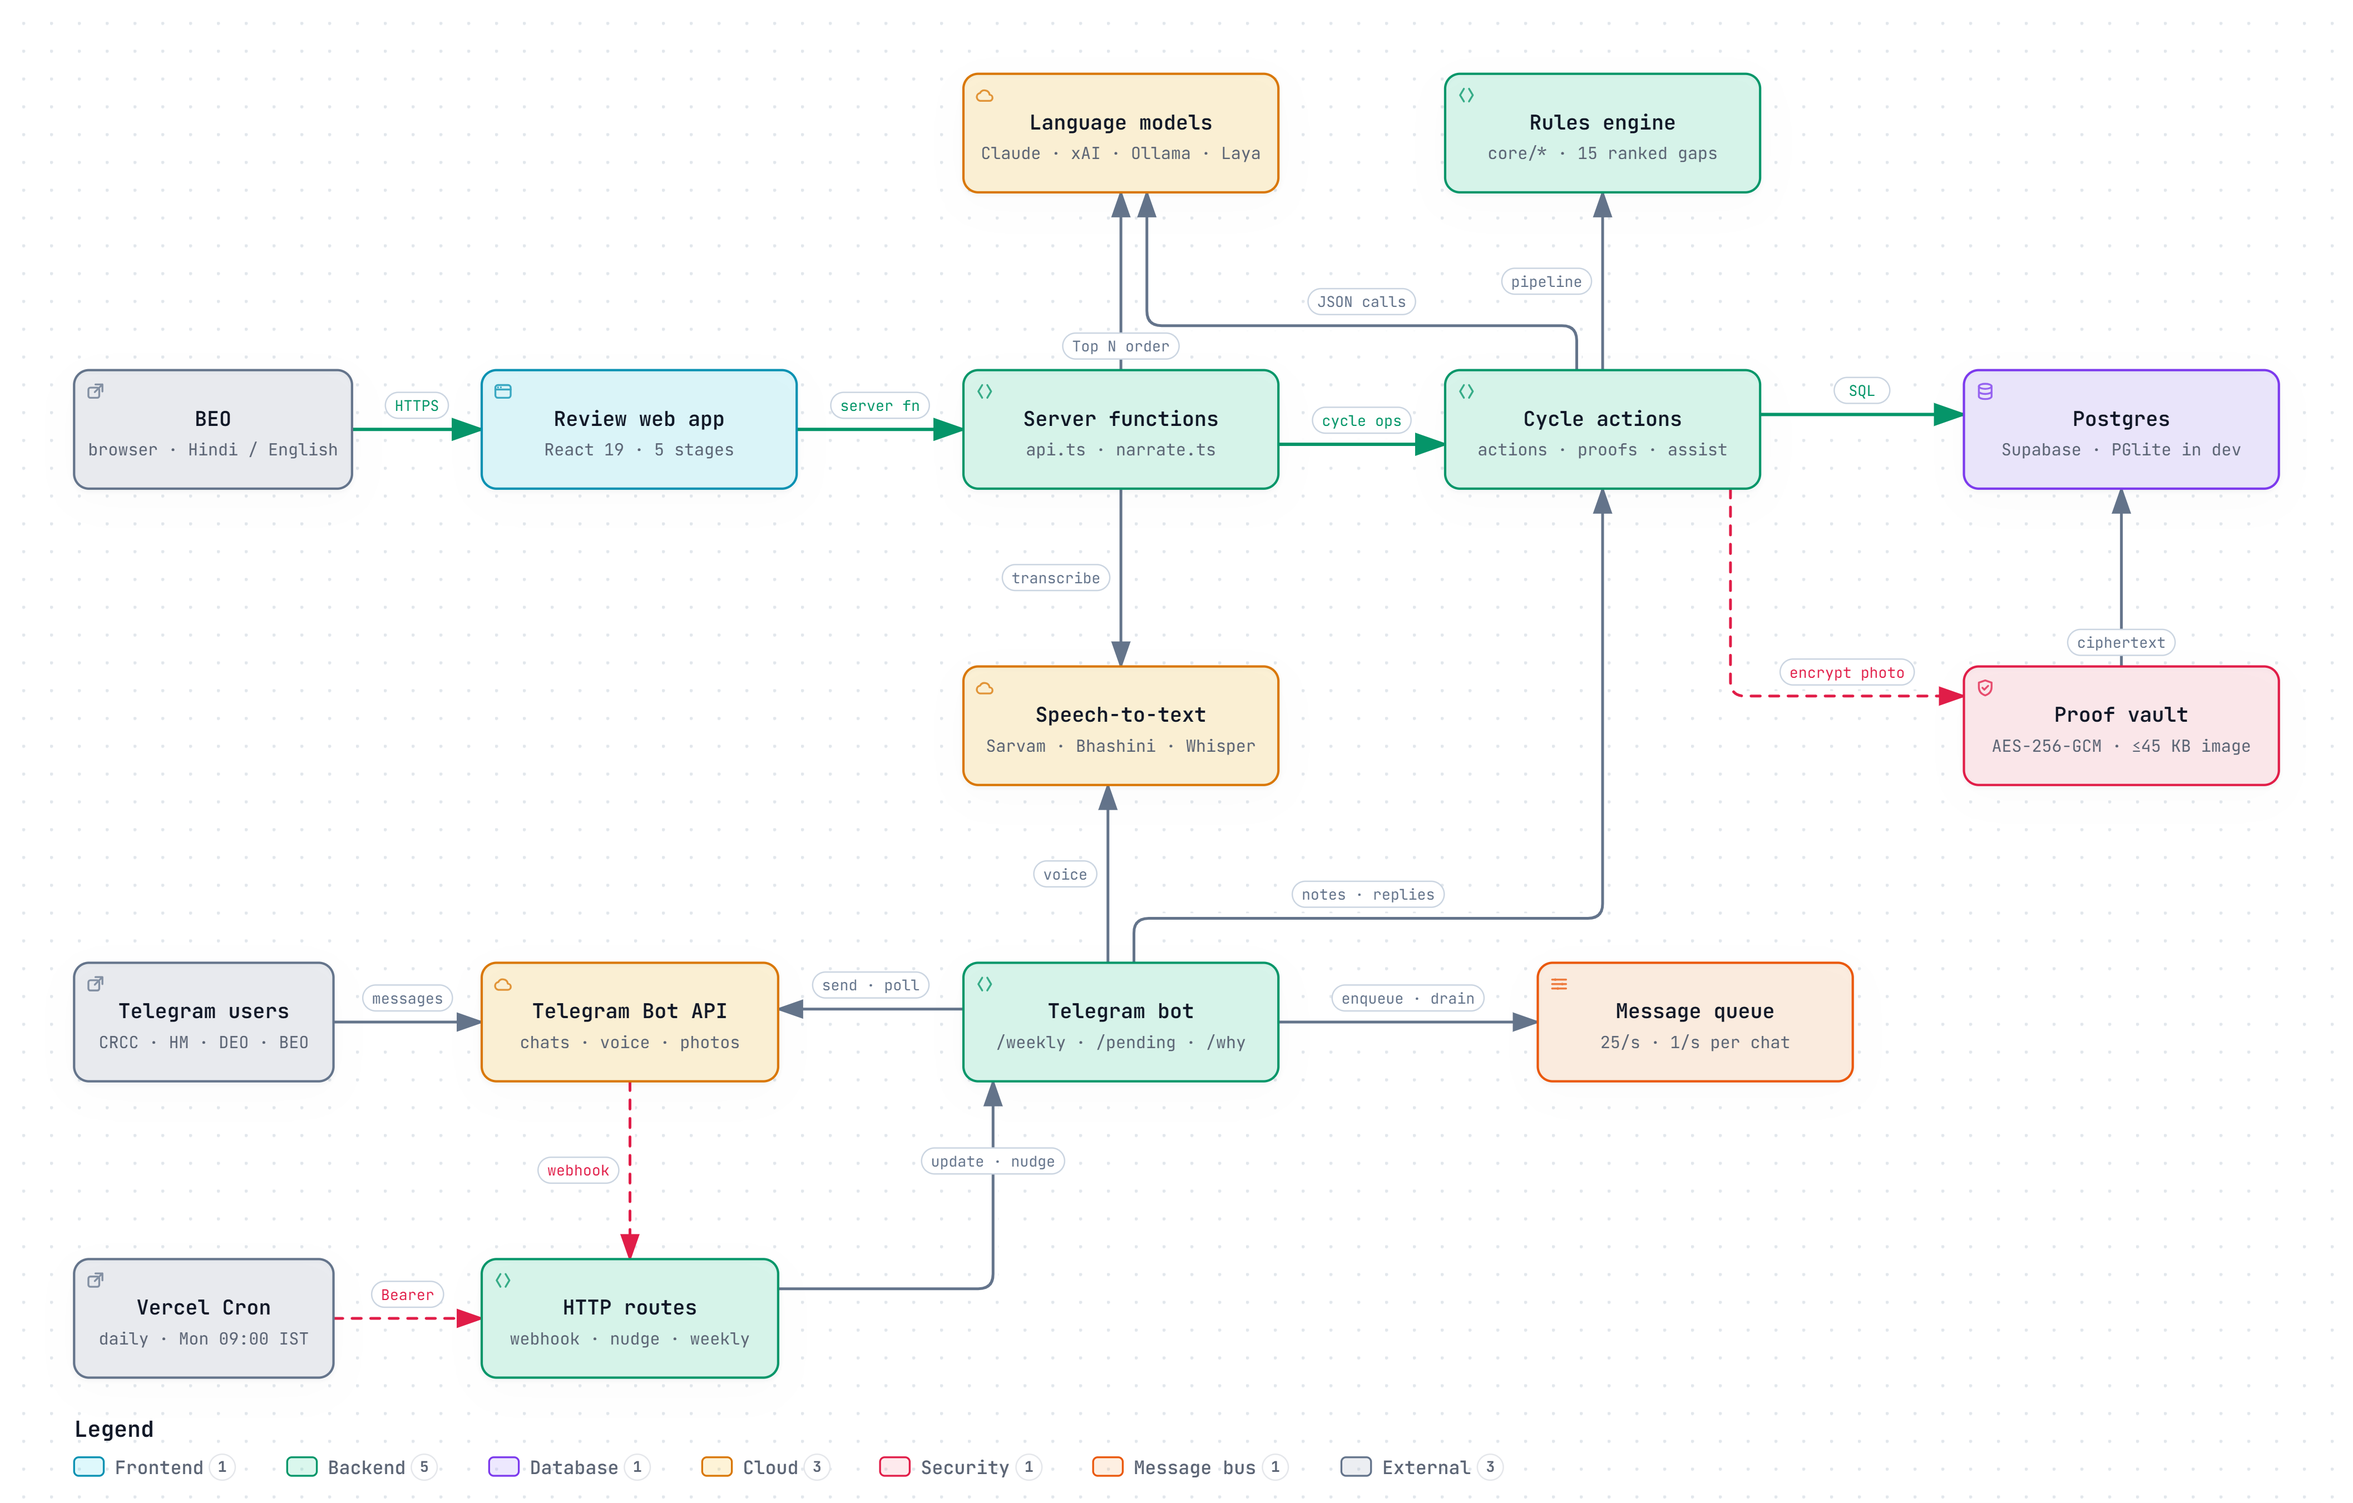
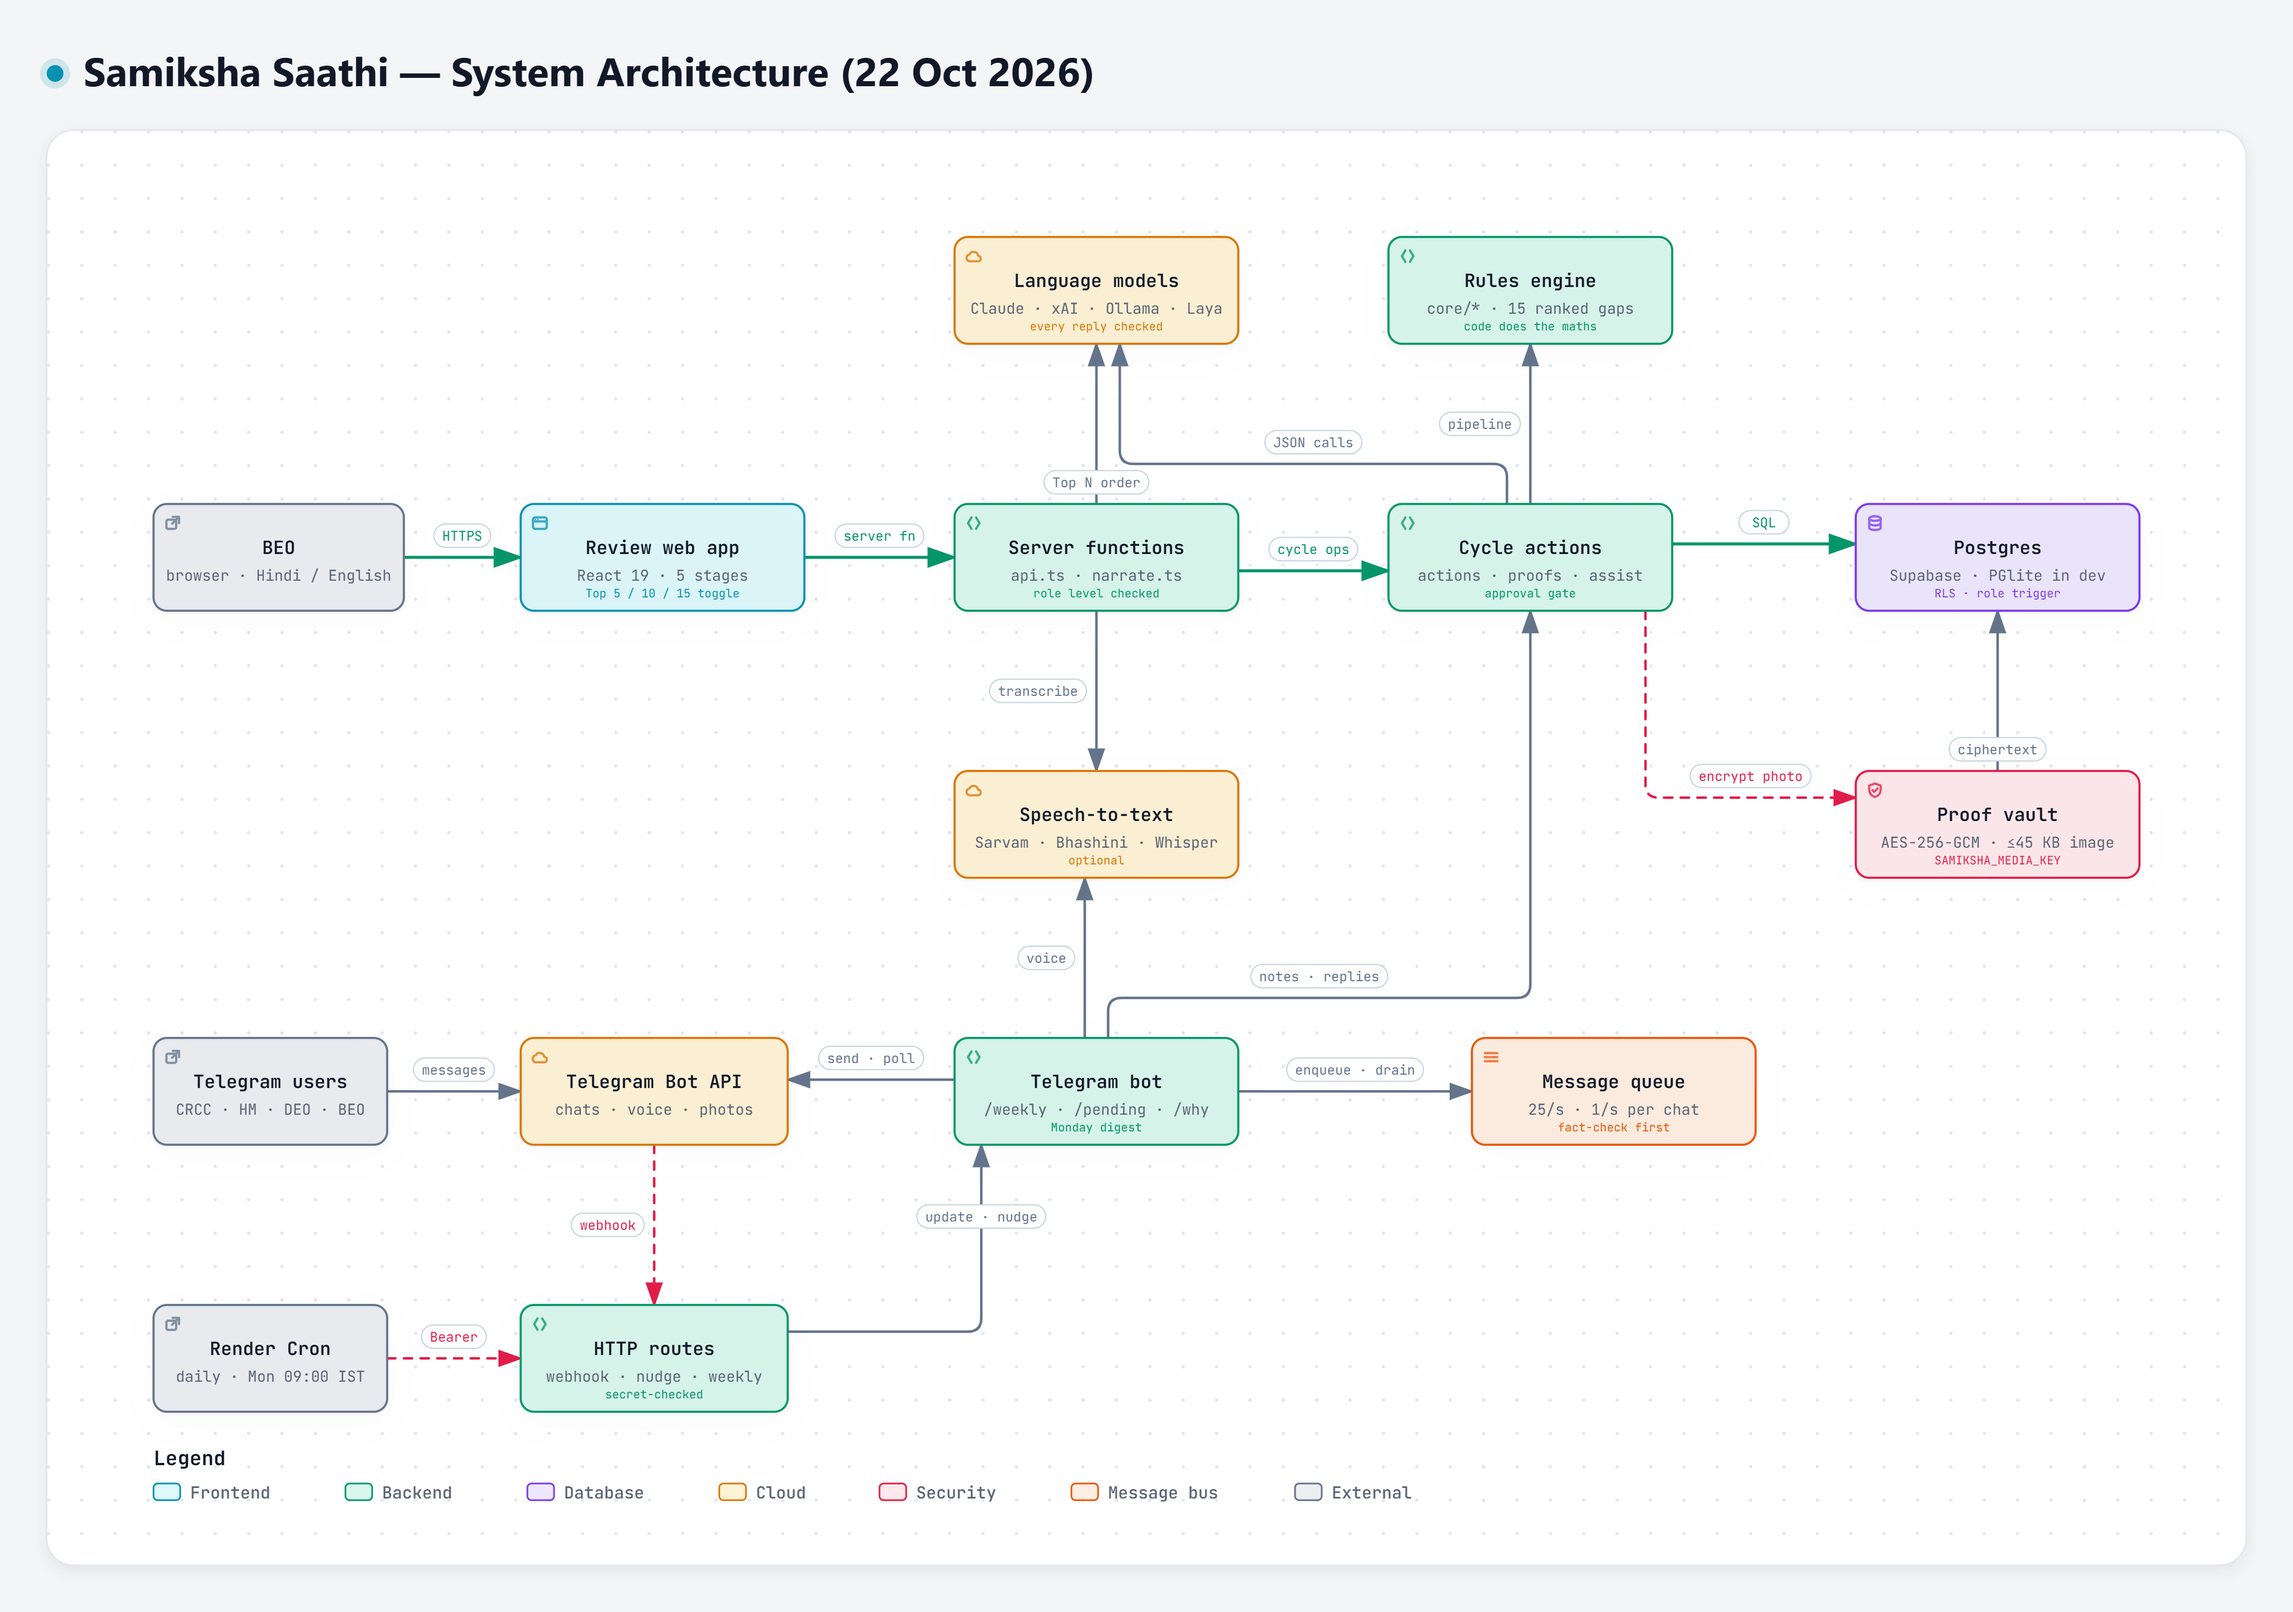
Update zod, seroval, fast-uri; docs 133/133; Render Cron in architecture; security notes

diff --git a/samiksha-saathi-architecture.html b/samiksha-saathi-architecture.html
@@ -5501,15 +5501,15 @@ OTHER DEALINGS IN THE FONT SOFTWARE.
         <text data-detail="fine" x="340" y="736" class="t-backend" font-size="7" text-anchor="middle">secret-checked</text>
         </g>
 
-        <g id="node-cron" data-node-id="cron" data-node-label="Vercel Cron" tabindex="0" role="button" aria-label="Focus Vercel Cron, daily · Mon 09:00 IST, Architecture component" aria-pressed="false" data-node-kind="external" data-node-sublabel="daily · Mon 09:00 IST" data-node-context="Architecture component">
-          <title>Vercel Cron · daily · Mon 09:00 IST · Architecture component</title>
+        <g id="node-cron" data-node-id="cron" data-node-label="Render Cron" tabindex="0" role="button" aria-label="Focus Render Cron, daily · Mon 09:00 IST, Architecture component" aria-pressed="false" data-node-kind="external" data-node-sublabel="daily · Mon 09:00 IST" data-node-context="Architecture component">
+          <title>Render Cron · daily · Mon 09:00 IST · Architecture component</title>
           <rect x="40" y="680" width="140" height="64" rx="8" class="c-mask"/>
           <rect x="40" y="680" width="140" height="64" rx="8" class="c-external" data-animate="node" style="--step:12" stroke-width="1.5"/>
           <g aria-hidden="true" data-semantic-sigil="external" class="semantic-sigil s-external" transform="translate(46 686) scale(0.6875)">
             <rect x="2.5" y="5" width="8.5" height="8" rx="1.5"/>
             <path d="M8 2.5h5.5V8M13.5 2.5 7.5 8.5"/>
           </g>
-          <text data-node-label="" data-detail-anchor="" x="110" y="710" class="t-primary" font-size="11" font-weight="600" text-anchor="middle">Vercel Cron</text>
+          <text data-node-label="" data-detail-anchor="" x="110" y="710" class="t-primary" font-size="11" font-weight="600" text-anchor="middle">Render Cron</text>
         <text data-detail="context" x="110" y="726" class="t-muted" font-size="9" text-anchor="middle">daily · Mon 09:00 IST</text>
         </g>
 

diff --git a/docs/DECK_RUBRIC_EVIDENCE_AND_EVALS.template.md b/docs/DECK_RUBRIC_EVIDENCE_AND_EVALS.template.md
@@ -1,6 +1,6 @@
 # Samiksha Saathi — Deck Rubric Evidence and Evals
 
-**State of the code:** 29 Oct 2026. **Tests:** `npm run typecheck` exits 0 · `npm test` 132/132 TypeScript tests (73 in the engine suite; the template's own `scripts/**/*.test.mjs` suite has 10 Windows-only failures that predate this work) · `npm run test:flow` 64/64 on an in-memory database.
+**State of the code:** 1 Nov 2026. **Tests:** `npm run typecheck` exits 0 · `npm test` 133/133 TypeScript tests (74 in the engine suite; the template's own `scripts/**/*.test.mjs` suite runs separately with `npm run test:template` and predates this work) · `npm run test:flow` 64/64 on an in-memory database.
 **Citations are generated** from this file's template by `npm run docs:report`; a citation the code no longer contains stops the render, and `npm run docs:report -- --check` fails when this file is stale.
 **Data:** a synthetic pilot block (fictional Kesli, 110 schools). There has been no field pilot with real officers yet.
 
@@ -91,7 +91,7 @@ Measured on the live database this week: a Top 5 reorder took 12 s for about ₹
 
 | Suite | Result | What it proves |
 |---|---|---|
-| `npm test` | 132 / 132 | Engine, guards, evals above, auth and app-data helpers |
+| `npm test` | 133 / 133 | Engine, guards, evals above, auth and app-data helpers |
 | `npm run test:flow` | 64 / 64 | The Telegram loop end to end on a fresh database, the roles, the vault, the cache and cap, WhatsApp, injection |
 | 33-block multi-format test | same gaps in MP, UP, PB; Haryana loses 1 gap to its level banding | {{src/lib/samiksha/samiksha.test.ts#33 blocks across four state formats}} |
 | 313-block scale run of the seeded block | under 2.5 s, median under 10 ms a block | {{src/lib/samiksha/samiksha.test.ts#313 blocks (a state) run in under 2.5 s}} |

diff --git a/docs/DECK_RUBRIC_EVIDENCE_AND_EVALS.md b/docs/DECK_RUBRIC_EVIDENCE_AND_EVALS.md
@@ -1,6 +1,6 @@
 # Samiksha Saathi — Deck Rubric Evidence and Evals
 
-**State of the code:** 29 Oct 2026. **Tests:** `npm run typecheck` exits 0 · `npm test` 132/132 TypeScript tests (73 in the engine suite; the template's own `scripts/**/*.test.mjs` suite has 10 Windows-only failures that predate this work) · `npm run test:flow` 64/64 on an in-memory database.
+**State of the code:** 1 Nov 2026. **Tests:** `npm run typecheck` exits 0 · `npm test` 133/133 TypeScript tests (74 in the engine suite; the template's own `scripts/**/*.test.mjs` suite runs separately with `npm run test:template` and predates this work) · `npm run test:flow` 64/64 on an in-memory database.
 **Citations are generated** from this file's template by `npm run docs:report`; a citation the code no longer contains stops the render, and `npm run docs:report -- --check` fails when this file is stale.
 **Data:** a synthetic pilot block (fictional Kesli, 110 schools). There has been no field pilot with real officers yet.
 
@@ -91,7 +91,7 @@ Measured on the live database this week: a Top 5 reorder took 12 s for about ₹
 
 | Suite | Result | What it proves |
 |---|---|---|
-| `npm test` | 132 / 132 | Engine, guards, evals above, auth and app-data helpers |
+| `npm test` | 133 / 133 | Engine, guards, evals above, auth and app-data helpers |
 | `npm run test:flow` | 64 / 64 | The Telegram loop end to end on a fresh database, the roles, the vault, the cache and cap, WhatsApp, injection |
 | 33-block multi-format test | same gaps in MP, UP, PB; Haryana loses 1 gap to its level banding | src/lib/samiksha/samiksha.test.ts:371 |
 | 313-block scale run of the seeded block | under 2.5 s, median under 10 ms a block | src/lib/samiksha/samiksha.test.ts:55 |

diff --git a/docs/ARCHITECTURE_AND_INTENT_REPORT.md b/docs/ARCHITECTURE_AND_INTENT_REPORT.md
@@ -1,7 +1,7 @@
 # Samiksha Saathi — Architecture, Intent and Trade-Offs
 
 **State of the code:** 29 Oct 2026, after the jury-audit fixes (Defects A–Y, Moves 1–4).
-**Tests:** `npm test` → 132/132 TypeScript tests (73 in the engine suite); the template's `scripts/**/*.test.mjs` suite has 10 Windows-only failures (symlink permission and share-card tests) that predate this work. `npm run test:flow` → 64/64 checks on an in-memory database. Tone, prompt-injection and offline evidence is in `docs/DECK_RUBRIC_EVIDENCE_AND_EVALS.md`.
+**Tests:** `npm test` → 133/133 TypeScript tests (74 in the engine suite). The template's own `scripts/**/*.test.mjs` suite runs separately (`npm run test:template`); some of it fails outside the app-builder sandbox (symlink permission and share-card tests) and predates this work. `npm run test:flow` → 64/64 checks on an in-memory database. Tone, prompt-injection and offline evidence is in `docs/DECK_RUBRIC_EVIDENCE_AND_EVALS.md`.
 **Citations** are generated: this file is rendered from `docs/ARCHITECTURE_AND_INTENT_REPORT.template.md` by `npm run docs:report`, which looks each one up in the current code and refuses to render a citation it cannot find. `npm run docs:report -- --check` fails when the report is out of date.
 
 **Benchmark, in the words the app also uses:** 4 state VSK format adapters (MP, UP, PB, HR), checked on a 33-block multi-format test and on a 313-block scale run of the seeded block (median under 10 ms a block), all on synthetic data.

diff --git a/docs/ARCHITECTURE_AND_INTENT_REPORT.template.md b/docs/ARCHITECTURE_AND_INTENT_REPORT.template.md
@@ -1,7 +1,7 @@
 # Samiksha Saathi — Architecture, Intent and Trade-Offs
 
 **State of the code:** 29 Oct 2026, after the jury-audit fixes (Defects A–Y, Moves 1–4).
-**Tests:** `npm test` → 132/132 TypeScript tests (73 in the engine suite); the template's `scripts/**/*.test.mjs` suite has 10 Windows-only failures (symlink permission and share-card tests) that predate this work. `npm run test:flow` → 64/64 checks on an in-memory database. Tone, prompt-injection and offline evidence is in `docs/DECK_RUBRIC_EVIDENCE_AND_EVALS.md`.
+**Tests:** `npm test` → 133/133 TypeScript tests (74 in the engine suite). The template's own `scripts/**/*.test.mjs` suite runs separately (`npm run test:template`); some of it fails outside the app-builder sandbox (symlink permission and share-card tests) and predates this work. `npm run test:flow` → 64/64 checks on an in-memory database. Tone, prompt-injection and offline evidence is in `docs/DECK_RUBRIC_EVIDENCE_AND_EVALS.md`.
 **Citations** are generated: this file is rendered from `docs/ARCHITECTURE_AND_INTENT_REPORT.template.md` by `npm run docs:report`, which looks each one up in the current code and refuses to render a citation it cannot find. `npm run docs:report -- --check` fails when the report is out of date.
 
 **Benchmark, in the words the app also uses:** 4 state VSK format adapters (MP, UP, PB, HR), checked on a 33-block multi-format test and on a 313-block scale run of the seeded block (median under 10 ms a block), all on synthetic data.

diff --git a/README.md b/README.md
@@ -123,6 +123,12 @@ Typecheck clean, 133/133 tests, 64/64 flow checks, all 162 report citations curr
 
 Highlights: Claude + Laya read 12/12 Hinglish field replies (rules alone: 4/12); 313 blocks, the size of Madhya Pradesh, run in under 2.5 s; a whole cycle runs offline with zero network calls. Model cost: ₹102.51 per block a month.
 
+## Security
+
+- **No secrets in the repo.** Keys live in `.env.local` (gitignored) or the host's environment; [`.env.example`](.env.example) lists every name with empty values.
+- **Response headers** on the deployed app: HSTS, `X-Frame-Options: SAMEORIGIN` and a `frame-ancestors` CSP, `nosniff`, a referrer policy and a permissions policy (set in [`vite.config.ts`](vite.config.ts)).
+- **Dependencies.** `npm audit --omit=dev` reports 3 advisories, all in `better-auth`, the app-builder template's sign-in library. None is reachable here: sign-in is off, no `/api/auth` route is mounted, and the advisories need plugins this app does not load (magic link, OAuth proxy, device login). Its fix, 1.7, moves the OAuth callback path the template's sign-in broker accepts, so it stays on the latest 1.6 patch (1.6.34). The other advisories `npm audit` lists are in eslint, a development tool that is never deployed.
+
 ## Repository layout
 
 | Path | Contents |
